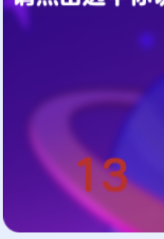
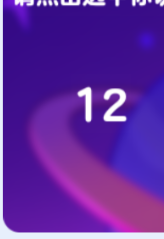
Minor fixes

diff --git a/common.py b/common.py
@@ -115,7 +115,7 @@ resource_map = {
 
 but_list = {}
 
-no_cache_list = ["CatHouse", "Exit", "Replace", "Chat", "RollRed", "Confirm"]
+no_cache_list = ["CatHouse", "Exit", "Replace", "Chat", "RollRed", "DiamRed", "Confirm"]
 
 # Define a new print function with a timestamp
 # Save the original built-in print function
@@ -160,19 +160,31 @@ def get_center_h(but, map_scope, th):
     Get the center coordinates of a button on the screen.
     """
     if but in no_cache_list or but not in coor_dict:  # Sometimes scroll can change the position
-        location = pyautogui.locateOnScreen(resource_map[map_scope][but], confidence=th)
-        if location is not None:
-            coor_dict[but] = pyautogui.center(location)
-        else:
-            print(f"Warning: Button '{but}' not found on screen.")
-            return None
+        try:
+            location = pyautogui.locateOnScreen(resource_map[map_scope][but], confidence=th)
+            if location is not None:
+                coor_dict[but] = pyautogui.center(location)
+            else:
+                print(f"Warning: Button '{but}' not found on screen.")
+                return None
+        except:
+            location = pyautogui.locateOnScreen(resource_map[map_scope][but], confidence=th)
+            if location is not None:
+                coor_dict[but] = pyautogui.center(location)
+            else:
+                print(f"Warning: Button '{but}' not found on screen.")
+                return None
     return coor_dict.get(but)
 
 def get_all(but, map_scope):
     """
     Get all matching locations of a button on the screen.
     """
-    matches = list(pyautogui.locateAllOnScreen(resource_map[map_scope][but], confidence=0.8))
+    matches = []
+    try:
+        matches = list(pyautogui.locateAllOnScreen(resource_map[map_scope][but], confidence=0.8))
+    except:
+        matches = list(pyautogui.locateAllOnScreen(resource_map[map_scope][but]))
     coors = []
     prev = None
     for match in matches:

diff --git a/red_pack.py b/red_pack.py
@@ -63,14 +63,18 @@ class RedPack:
 
     def single_get(self, pk_name):
         thankyou = False
-        while simple_single_find(pk_name, "Single", 0.8):
-            if simple_single_find("RobotDetect", "Single", 0.8):
-                if self.rb is None:
-                    self.rb = RobotCheck(self.sft)
-                self.rb.break_check()
-            center = get_center_h(pk_name, "Single", 0.8)
-            click_at(center.x / self.sft, center.y / self.sft)
-            time.sleep(1)
+        try:
+            while simple_single_find(pk_name, "Single", 0.8):
+                if simple_single_find("RobotDetect", "Single", 0.8):
+                    if self.rb is None:
+                        self.rb = RobotCheck(self.sft)
+                    self.rb.break_check()
+                center = get_center_h(pk_name, "Single", 0.8)
+                click_at(center.x / self.sft, center.y / self.sft)
+                time.sleep(1)
+        except:
+            print ("Too many chats!")
+            return
 
         if single_find("TakeRed"):
             self.count += 1

diff --git a/running.py b/running.py
@@ -63,9 +63,13 @@ class MainRun:
         self.visits += 1
         for i in range(1, 2000):
             if single_find("Confirm"):
-                print ("Confirm of high rolling!")
-                center = get_center("Confirm", "Single")
-                click_at(center.x / self.sft, center.y / self.sft)
+                try:
+                    print ("Confirm of high rolling!")
+                    center = get_center("Confirm", "Single")
+                    click_at(center.x / self.sft, center.y / self.sft)
+                except:
+                    time.sleep(1)
+                    continue
                 time.sleep(1)
             btl = find_button("Visit")
             if "Roll" in btl:
@@ -218,6 +222,8 @@ class MainRun:
             # Can be busy sometime
             while single_find("VisitBusy"):
                 if single_find("RobotDetected"):
+                    if self.rd is None:
+                        self.rd = RobotCheck(self.sft)
                     self.rd.break_check()
                     time.sleep(1)
                     continue
